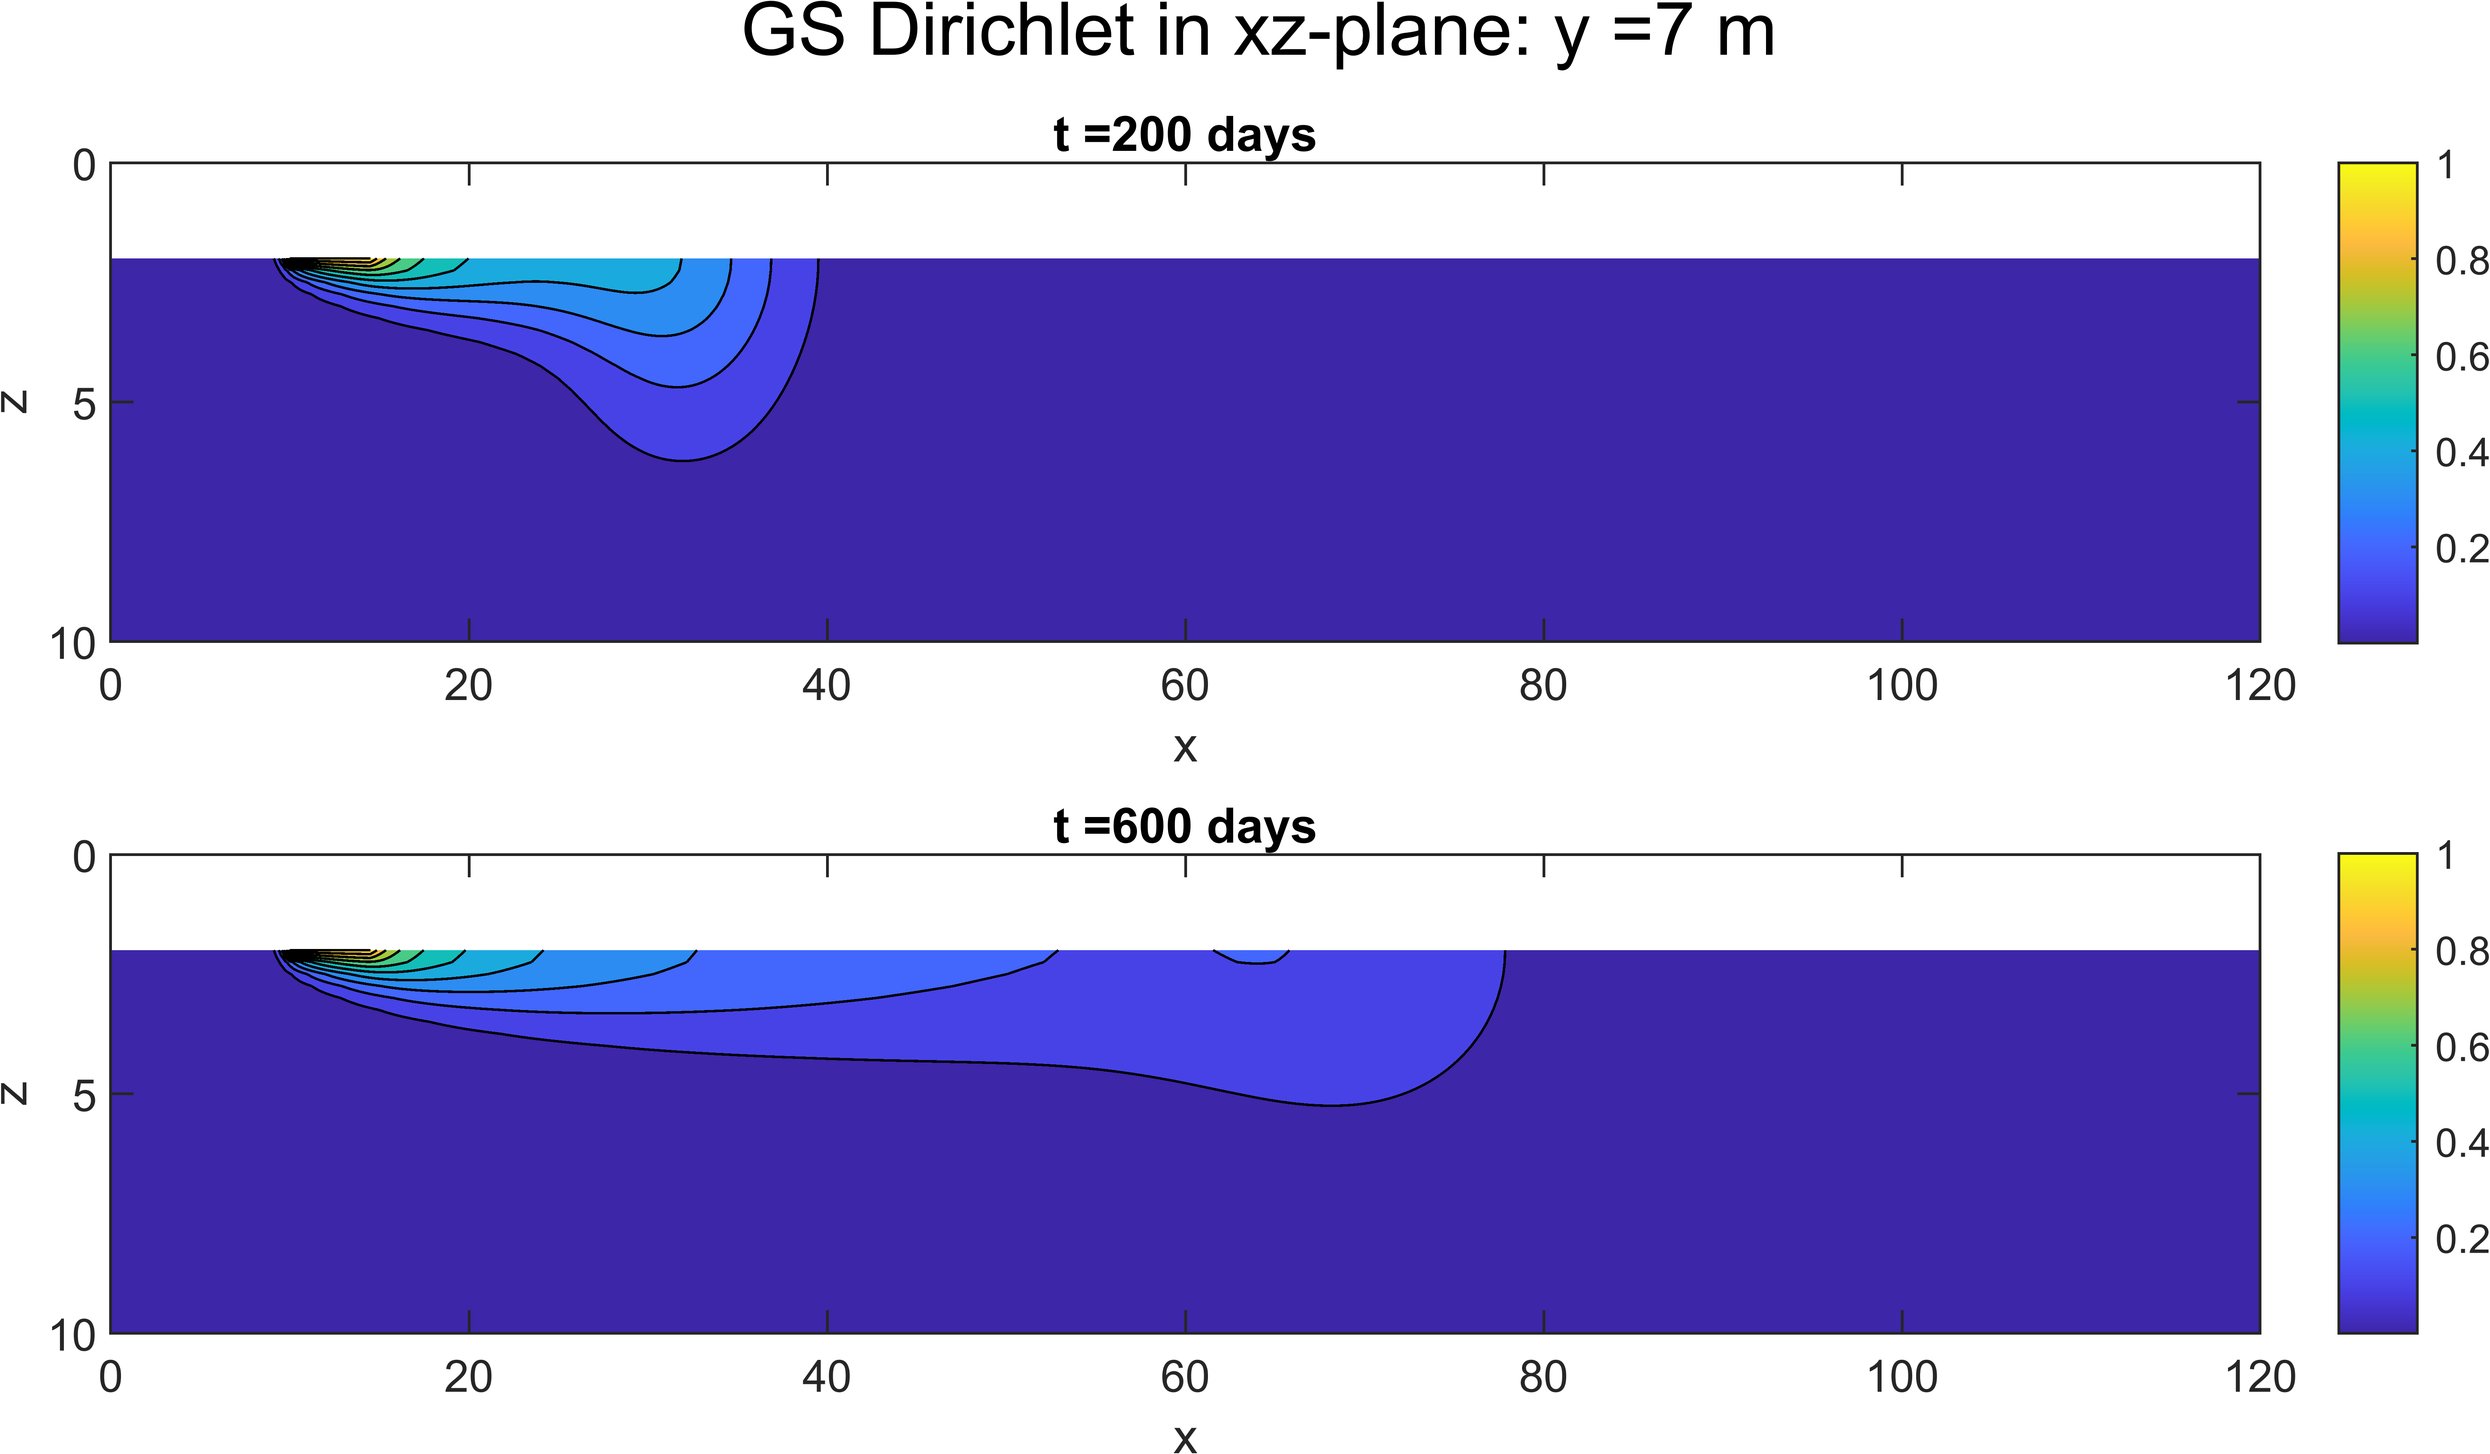
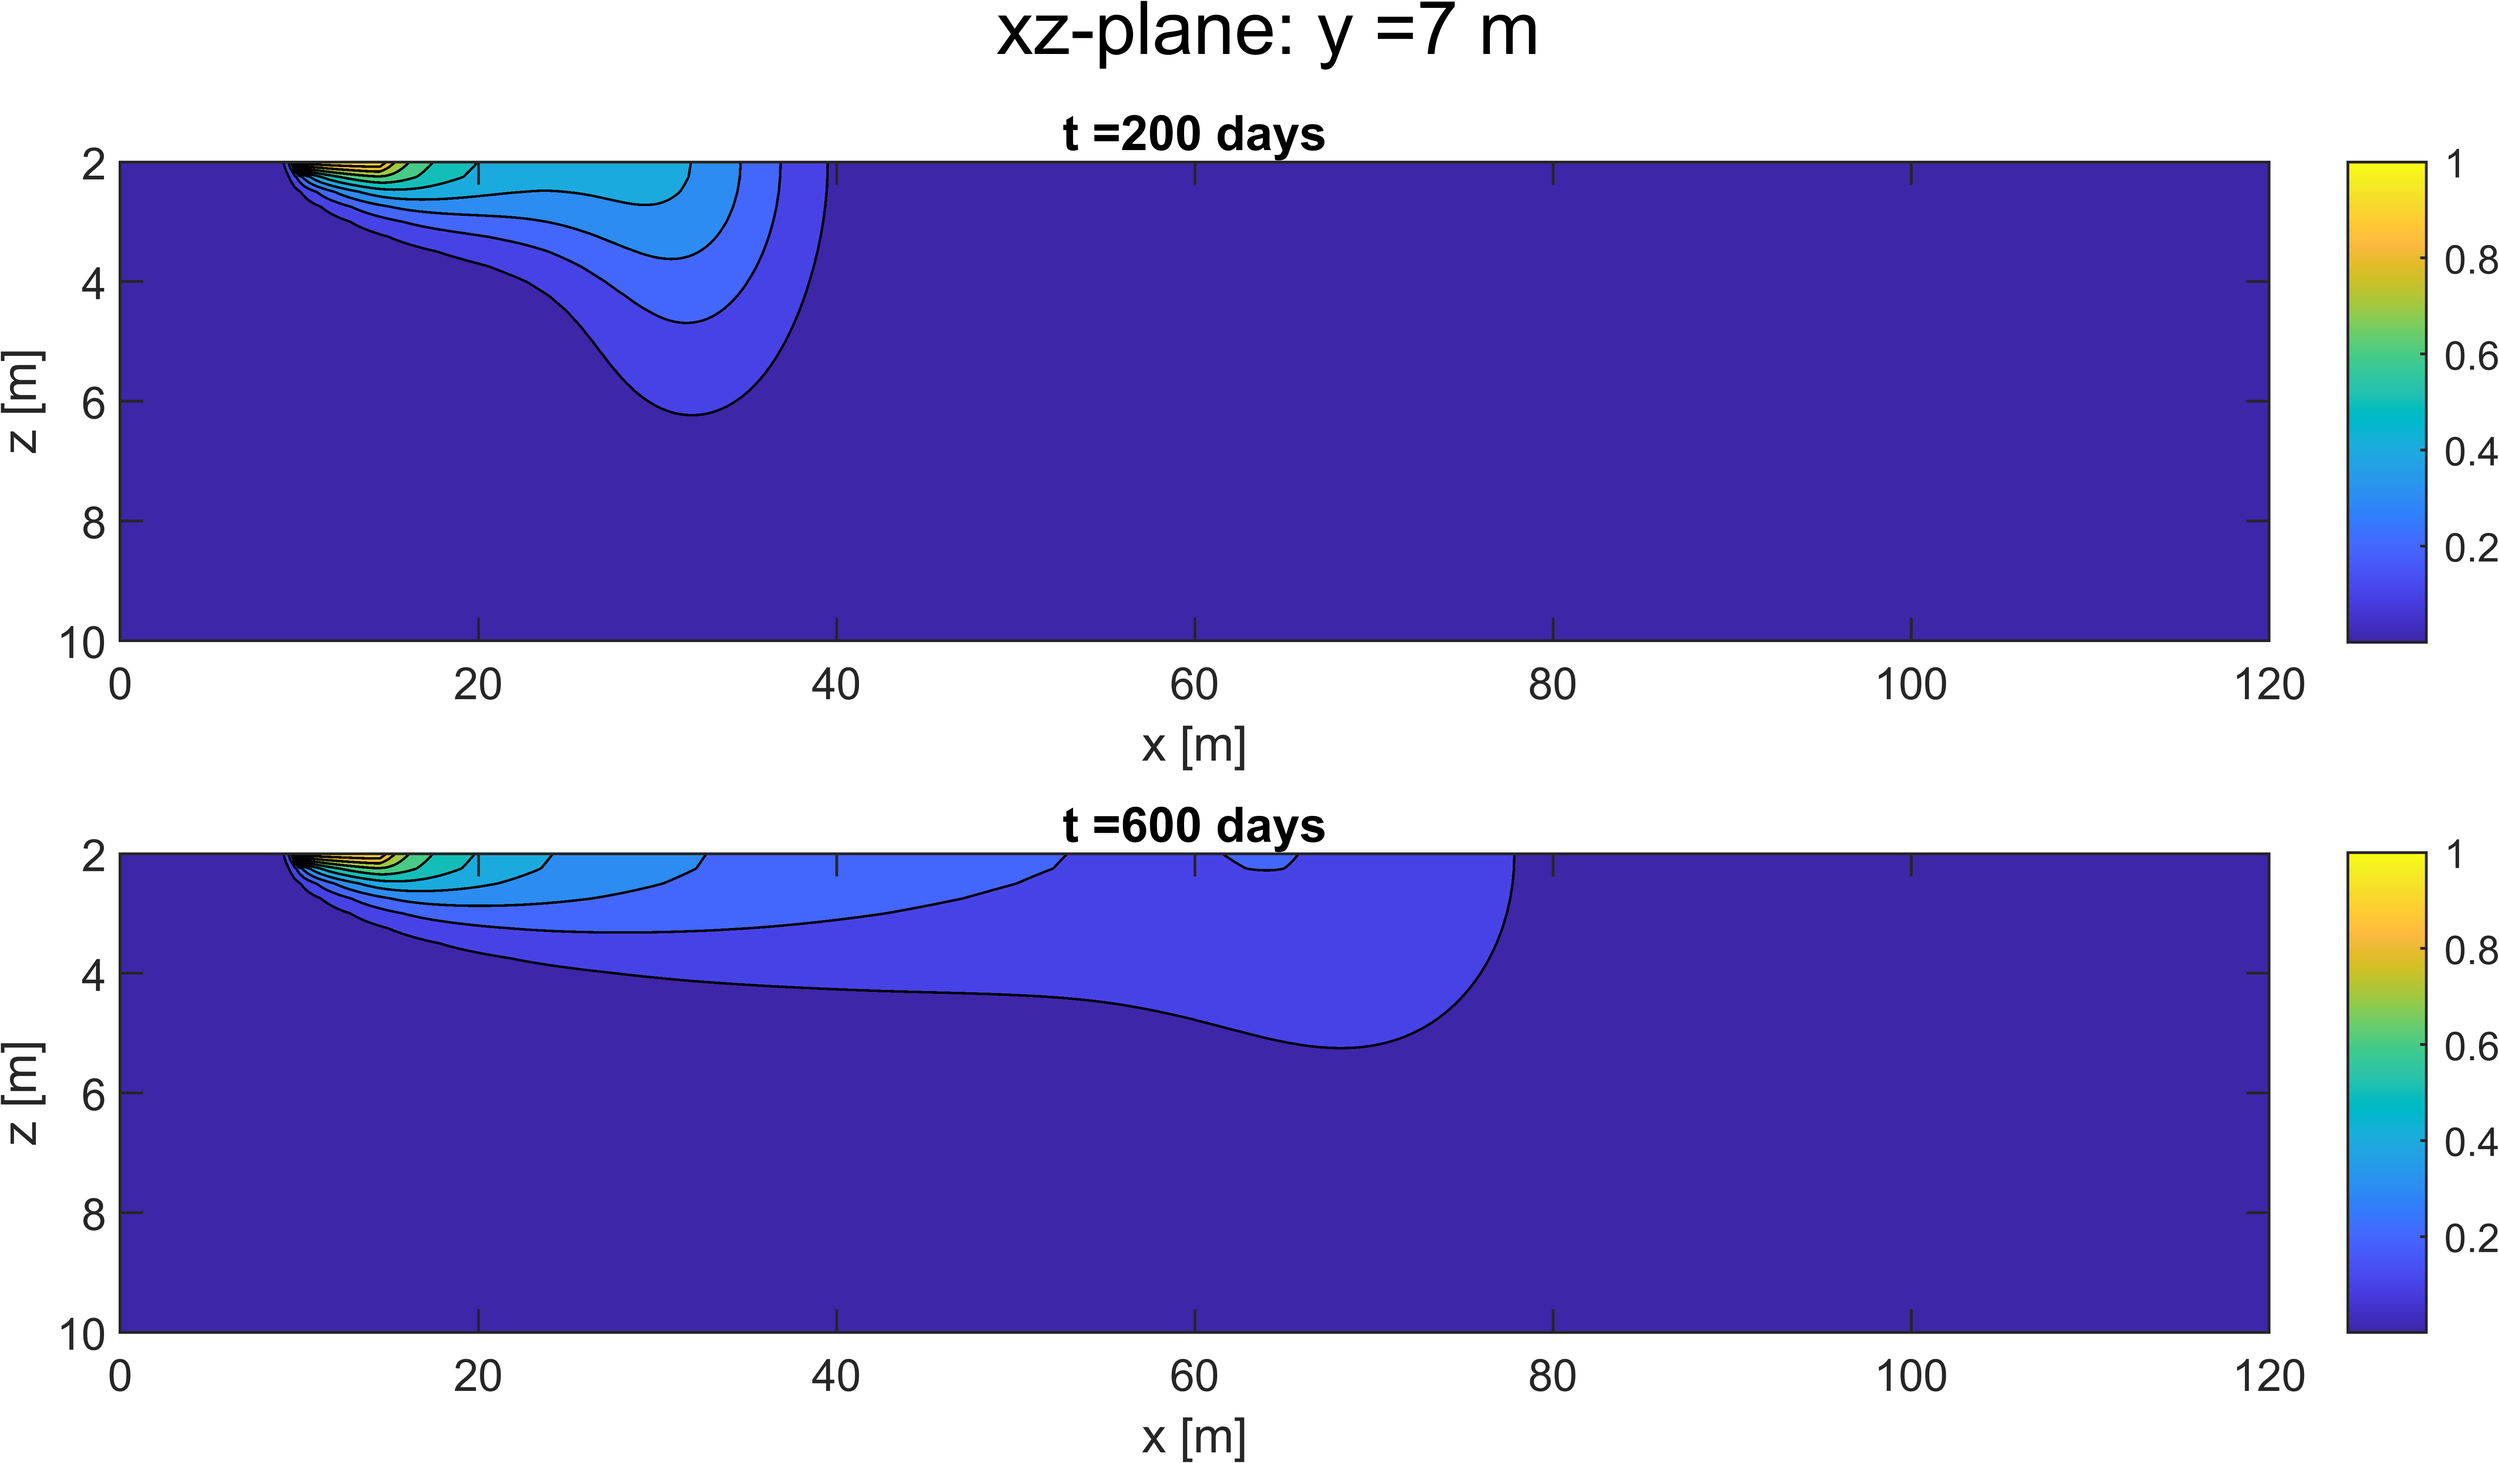
3D_updates

diff --git a/GS_3D_Dirichlet.m b/GS_3D_Dirichlet.m
@@ -161,14 +161,14 @@ for i = 1:length(tijden)
     u = us{i};
     uxz = squeeze(u(posy_doorsnede,2:end-1,2:end-1));
     contourf(x,z,uxz')
-    xlabel('x')
-    ylabel('z')
-    ylim([0,10])
+    xlabel('x [m]')
+    ylabel('z [m]')
+    ylim([2,10])
     set ( gca, 'ydir', 'reverse' )
     title(strcat('t = ',num2str(t(tijdid)),' days'))
     colorbar
 end
-sgtitle(strcat('GS Dirichlet in xz-plane: y = ',num2str(ydoorsnede)',' m'))
+sgtitle(strcat('xz-plane: y = ',num2str(ydoorsnede)',' m'))
 exportgraphics(gcf,'Figuur_3D_Dirichlet_xz_y7.png','Resolution',900)
 toc
 
@@ -185,11 +185,13 @@ for i = 1:length(zdoorsnedes)
     contourf(x,y,uyx)
     set ( gca, 'ydir', 'reverse' )
     colorbar
-    xlabel('x')
-    ylabel('y')
+    %caxis([0,1]) %niet duidelijk
+    xlabel('x [m]')
+    ylabel('y [m]')
     title(strcat('z = ',num2str(zdoorsnede), ' m'))
 end
-sgtitle('GS in xy-plane: t = 200 days')
+sgtitle('xy-plane: t = 200 days')
+exportgraphics(gcf,'Figuur_3D_Dirichlet_xy_t200.png','Resolution',900)
 
 % xy vlak doorsende op t = 600
 f = figure();
@@ -204,8 +206,10 @@ for i = 1:length(zdoorsnedes)
     contourf(x,y,uyx)
     set ( gca, 'ydir', 'reverse' )
     colorbar
-    xlabel('x')
-    ylabel('y')
+    %caxis([0,1])
+    xlabel('x [m]')
+    ylabel('y [m]')
     title(strcat('z = ',num2str(zdoorsnede), ' m'))
 end
-sgtitle('GS in xy-plane: t = 600 days')
+sgtitle('xy-plane: t = 600 days')
+exportgraphics(gcf,'Figuur_3D_Dirichlet_xy_t600.png','Resolution',900)

diff --git a/GS_3D.m b/GS_3D.m
@@ -52,7 +52,8 @@ end
 ydoorsnede = (4.2 + 9.8)/2;
 idy_doorsnede = y == ydoorsnede;
 posy_doorsnede = find(idy_doorsnede) +1;
-figure()
+f = figure();
+f.Position(3:4) = [1.5*560,420];
 uxz = squeeze(u(posy_doorsnede,2:end-1,2:end-1));
 contourf(x,z,uxz')
 %gebruik squeeze om 2D matrix te krijgen!!!
@@ -182,7 +183,7 @@ for i = 1:length(zdoorsnedes)
     title(strcat('z = ',num2str(zdoorsnede), ' m'))
 end
 sgtitle('xy-plane: t = 200 days')
-
+exportgraphics(gcf,'Figuur_3D_xy_t200.png','Resolution',900)
 % xy vlak doorsende op t = 600
 f = figure();
 f.Position(3:4) = [1.5*560,420];
@@ -202,3 +203,4 @@ for i = 1:length(zdoorsnedes)
     title(strcat('z = ',num2str(zdoorsnede), ' m'))
 end
 sgtitle('xy-plane: t = 600 days')
+exportgraphics(gcf,'Figuur_3D_xy_t600.png','Resolution',900)
